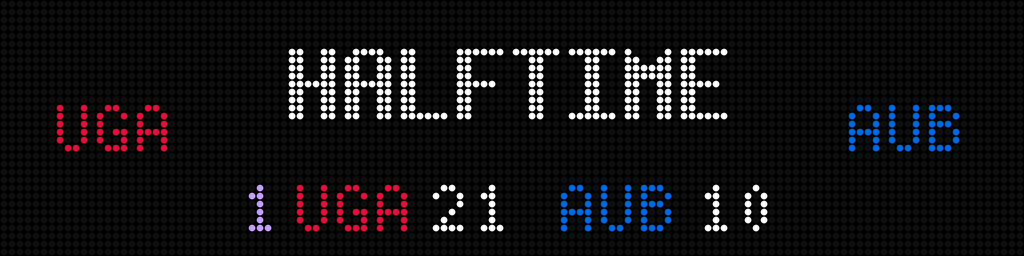
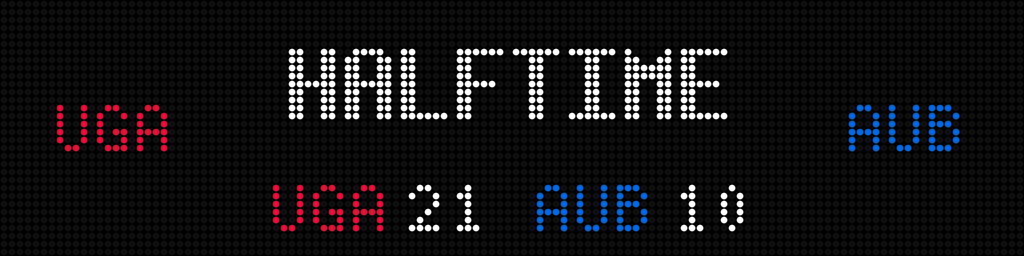
Halftime card: no rank badges
Seen on a real board at the half of Georgia at South Carolina: a number
before each team made the score line cluttered (and one side's badge was
absent anyway, since the poll in use did not rank it). The card is about
the score, so it never shows a rank; the scoreboard, field band and
other screens keep theirs.

Claude-Session: https://claude.ai/code/session_01PxRyi83d3tu2f5au5fuEqd

Changed region(s): [[0.2188, 0.7188, 0.75, 0.9062], [0.5312, 0.7188, 0.5625, 0.75]]

diff --git a/src/scoreboard/display/football_scenes.py b/src/scoreboard/display/football_scenes.py
@@ -293,7 +293,7 @@ def _score(
 def draw_fb_halftime(r: Renderer, canvas: Any, game: FbGame) -> None:
     """The halftime card (#388): what the board holds on from the end of the half until play
     resumes. ``HALFTIME`` in the large font, both teams' logos at the edges (128px only, 16px,
-    else their abbreviations) and the score under it."""
+    else their abbreviations) and the score under it. Never a rank badge (owner's call)."""
     canvas.Clear()
     wide = r.width >= 128
     cx = r.width // 2
@@ -313,23 +313,16 @@ def draw_fb_halftime(r: Renderer, canvas: Any, game: FbGame) -> None:
             else:
                 r.text_center(canvas, r.fonts.small, x, 19, side_color(side), side.abbrev)
 
-    def halftime_parts(badges: bool) -> list[tuple[str, tuple[int, int, int], int]]:
-        out: list[tuple[str, tuple[int, int, int], int]] = []
-        for side, between in ((game.away, 6), (game.home, 0)):
-            badge = rank_badge(side, r) if badges else ""
-            if badge:
-                out.append((badge, RANK_COLOR, 2))
-            out.append((side.abbrev, side_color(side), 2))
-            out.append((str(side.score), WHITE, between))
-        return out
-
+    # No rank badges here, by the owner's call (2026-11-22, from a real board at the half of
+    # Georgia at South Carolina): the card is about the score, and a number before each team made
+    # the line cluttered. Every other college screen keeps its badges.
+    parts: list[tuple[str, tuple[int, int, int], int]] = []
+    for side, between in ((game.away, 6), (game.home, 0)):
+        parts.append((side.abbrev, side_color(side), 2))
+        parts.append((str(side.score), WHITE, between))
     font = r.fonts.small
-    parts = halftime_parts(True)
     total = sum(text_width(font, t) + gap for t, _, gap in parts)
-    if total > r.width - 2:  # a long score on a narrow panel: drop the badges, then the font
-        parts = halftime_parts(False)
-        total = sum(text_width(font, t) + gap for t, _, gap in parts)
-    if total > r.width - 2:
+    if total > r.width - 2:  # a long score on a narrow panel: drop to the smaller font
         font = r.fonts.tiny
         total = sum(text_width(font, t) + gap for t, _, gap in parts)
     x = max(0, (r.width - total) // 2)

diff --git a/tests/test_football_college_badges.py b/tests/test_football_college_badges.py
@@ -209,19 +209,22 @@ def test_the_field_band_without_ranks_is_unchanged():
     assert field(g).render() == field(ranked(g)).render()
 
 
-def test_the_halftime_card_shows_the_ranks_on_the_score_line(update_snapshots):
-    g = ranked(GAMES["halftime"], away=4, home=17)
-    c = halftime(g)
-    art = show("fb_halftime_ranked", c)
-    assert not c.out_of_bounds
-    assert GOLD in c.colors(0, 22, 127, 31)
-    check_snapshot("fb_halftime_ranked", art, update_snapshots)
-
-
-def test_halftime_without_ranks_and_on_64px_are_unchanged():
+def test_the_halftime_card_never_shows_a_rank():
+    # Owner's call after seeing it on a real board (Georgia at South Carolina, 2026-11-22): the
+    # score line was cluttered with a number before each team. Ranks stay on every other screen.
     g = GAMES["halftime"]
-    assert halftime(g).render() == halftime(ranked(g)).render()
-    assert halftime(ranked(g, away=4, home=17), 64).render() == halftime(g, 64).render()
+    for width in (128, 64):
+        plain = halftime(g, width)
+        for away, home in ((4, 17), (1, None), (None, 21), (25, 25)):
+            c = halftime(ranked(g, away=away, home=home), width)
+            assert c.render() == plain.render()
+            assert GOLD not in c.colors(0, 0, width - 1, H - 1)
+
+
+def test_the_ranks_are_still_drawn_on_the_scoreboard_and_the_field_band():
+    assert GOLD in scores(ranked(GAMES["live"], away=4, home=17)).colors(0, 0, 127, 20)
+    g = ranked(GAMES["live_no_situation"], away=5, home=12)
+    assert GOLD in field(g).colors(0, 0, 127, 9)
 
 
 def test_the_game_helper_builds_unranked_teams():

diff --git a/scripts/college-mockups.py b/scripts/college-mockups.py
@@ -139,9 +139,9 @@ draw(128, lambda r, c, g: r.draw_fb_field(c, g), g2, "03_field_with_ranks")
 g3b = game("TEX", "ALA", "in", 17, 20, "11:42 - 4th", 4, ranks=(5, 3))
 draw(128, lambda r, c, g: r.draw_fb_field(c, g), g3b, "03b_field_with_ranks_no_down")
 
-# 4. halftime card
+# 4. halftime card: never a rank (owner's call, 2026-11-22), even for a ranked team
 g4 = game("UGA", "AUB", "in", 21, 10, "Halftime", 2, name="STATUS_HALFTIME", ranks=(1, None))
-draw(128, lambda r, c, g: r.draw_fb_halftime(c, g), g4, "04_halftime_ranked")
+draw(128, lambda r, c, g: r.draw_fb_halftime(c, g), g4, "04_halftime_no_rank")
 
 # 5. pregame
 g5 = game(

diff --git a/CLAUDE.md b/CLAUDE.md
@@ -129,6 +129,7 @@ Work is tracked in epics #532-#538 and done on the integration branch `college-f
 follows `docs/college-loop.md`**: the queue, the per-issue steps, auto-merge on green CI, and the
 rules it never breaks. Mockups of every college screen: `python scripts/college-mockups.py`
 (images in `docs/college/`). Live-game capture: `scripts/capture-college-live.py`.
+The halftime card never shows rank badges (owner's call, 2026-11-22, seen on a real board: a number before each team cluttered the score line); the scoreboard, the field band and the other screens keep theirs.
 The red zone marker (#562) is the NFL's drawing on the live field/scoreboard, driven by ESPN's `isRedZone`
 **as sent** (never derived from the yard line: the flag was not seen true in the one live game captured);
 no flag, no possessor or no situation draws nothing. On the field band a long down (`1ST&GOAL`) shrinks to
